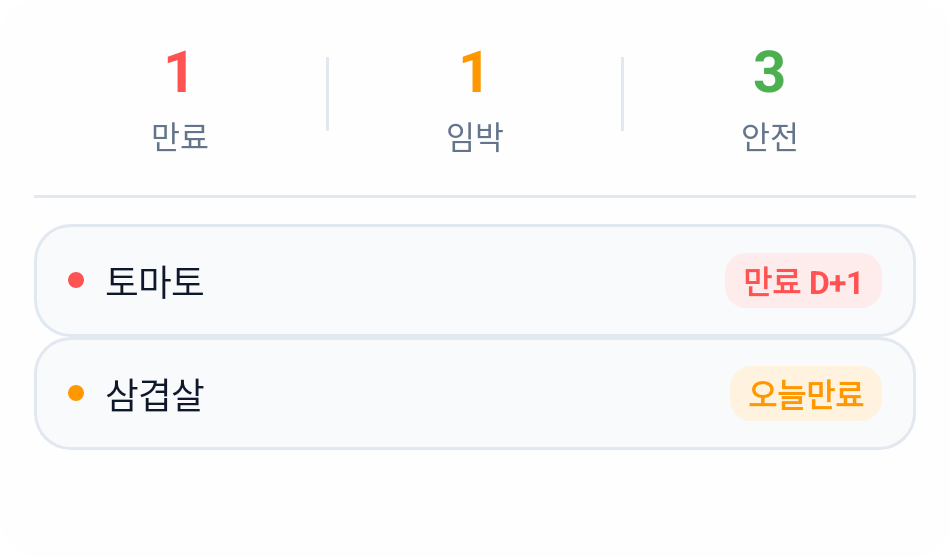
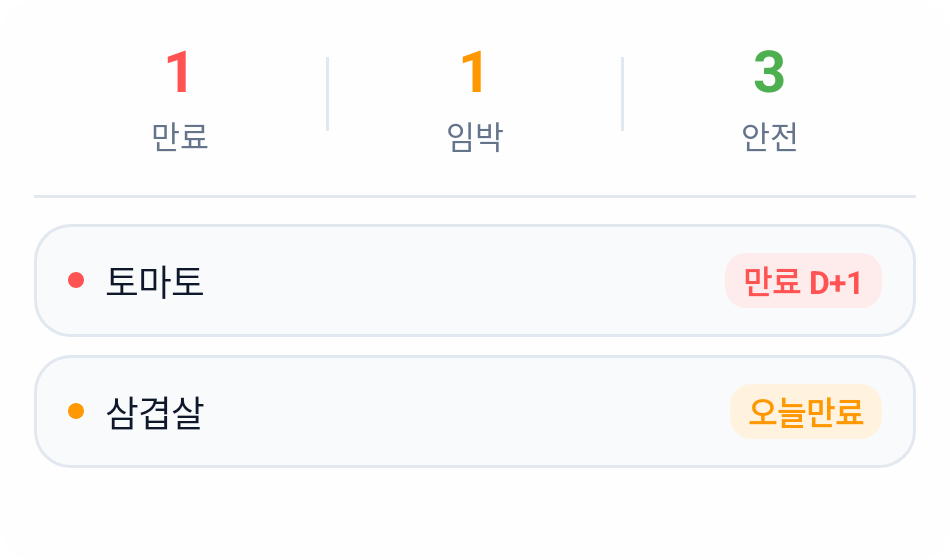
style: 위젯 식재료 카드 간격 조정 및 미리보기 이미지 갱신

diff --git a/src/widget/ExpiringWidget.tsx b/src/widget/ExpiringWidget.tsx
@@ -64,7 +64,9 @@ export function ExpiringWidget({ snapshot, width, dark, compact = false }: Props
         <FlexWidget style={{ width: 'match_parent', flexDirection: 'column', flex: 1 }}>
           <FlexWidget style={{ width: 'match_parent', height: 1, backgroundColor: hex(c.border), marginTop: 14, marginBottom: 10 }} />
           {items.length === 0 ? (
-            <TextWidget text="임박·만료된 식재료가 없어요 👍" style={{ fontSize: 13, color: hex(c.textTertiary) }} />
+            <FlexWidget style={{ width: 'match_parent', flex: 1, justifyContent: 'center', alignItems: 'center' }}>
+              <TextWidget text="임박·만료된 식재료가 없어요 👍" style={{ fontSize: 13, color: hex(c.textTertiary) }} />
+            </FlexWidget>
           ) : (
             // ListWidget = 네이티브 ListView. 항목이 위젯 높이를 넘으면 세로 스크롤된다.
             <ListWidget style={{ width: 'match_parent', height: 'match_parent' }}>
@@ -105,29 +107,32 @@ function Divider({ color }: { color: Hex }) {
 function Row({
   item, textColor, strong, chipBg, cardBg, cardBorder,
 }: { item: WidgetItem; textColor: Hex; strong: Hex; chipBg: Hex; cardBg: Hex; cardBorder: Hex }) {
+  // ListWidget(ListView)은 아이템 root의 marginBottom을 무시하므로, 투명 래퍼의
+  // paddingBottom으로 카드 사이 간격을 만든다.
   return (
-    <FlexWidget
-      clickAction="OPEN_URI"
-      clickActionData={{ uri: 'freshkeep://?tab=ingredients' }}
-      style={{
-        width: 'match_parent',
-        flexDirection: 'row',
-        alignItems: 'center',
-        backgroundColor: cardBg,
-        borderRadius: 14,
-        borderWidth: 1,
-        borderColor: cardBorder,
-        paddingHorizontal: 12,
-        paddingVertical: 10,
-        marginBottom: 8,
-      }}
-    >
-      <FlexWidget style={{ width: 6, height: 6, borderRadius: 3, backgroundColor: strong, marginRight: 8 }} />
-      <FlexWidget style={{ flex: 1, marginRight: 8 }}>
-        <TextWidget text={item.name} maxLines={1} style={{ fontSize: 14, color: textColor }} />
-      </FlexWidget>
-      <FlexWidget style={{ backgroundColor: chipBg, borderRadius: 8, paddingHorizontal: 7, paddingVertical: 2 }}>
-        <TextWidget text={item.dday} style={{ fontSize: 12, fontWeight: 'bold', color: strong }} />
+    <FlexWidget style={{ width: 'match_parent', paddingBottom: 7 }}>
+      <FlexWidget
+        clickAction="OPEN_URI"
+        clickActionData={{ uri: 'freshkeep://?tab=ingredients' }}
+        style={{
+          width: 'match_parent',
+          flexDirection: 'row',
+          alignItems: 'center',
+          backgroundColor: cardBg,
+          borderRadius: 14,
+          borderWidth: 1,
+          borderColor: cardBorder,
+          paddingHorizontal: 12,
+          paddingVertical: 10,
+        }}
+      >
+        <FlexWidget style={{ width: 6, height: 6, borderRadius: 3, backgroundColor: strong, marginRight: 8 }} />
+        <FlexWidget style={{ flex: 1, marginRight: 8 }}>
+          <TextWidget text={item.name} maxLines={1} style={{ fontSize: 14, color: textColor }} />
+        </FlexWidget>
+        <FlexWidget style={{ backgroundColor: chipBg, borderRadius: 8, paddingHorizontal: 7, paddingVertical: 2 }}>
+          <TextWidget text={item.dday} style={{ fontSize: 12, fontWeight: 'bold', color: strong }} />
+        </FlexWidget>
       </FlexWidget>
     </FlexWidget>
   );
